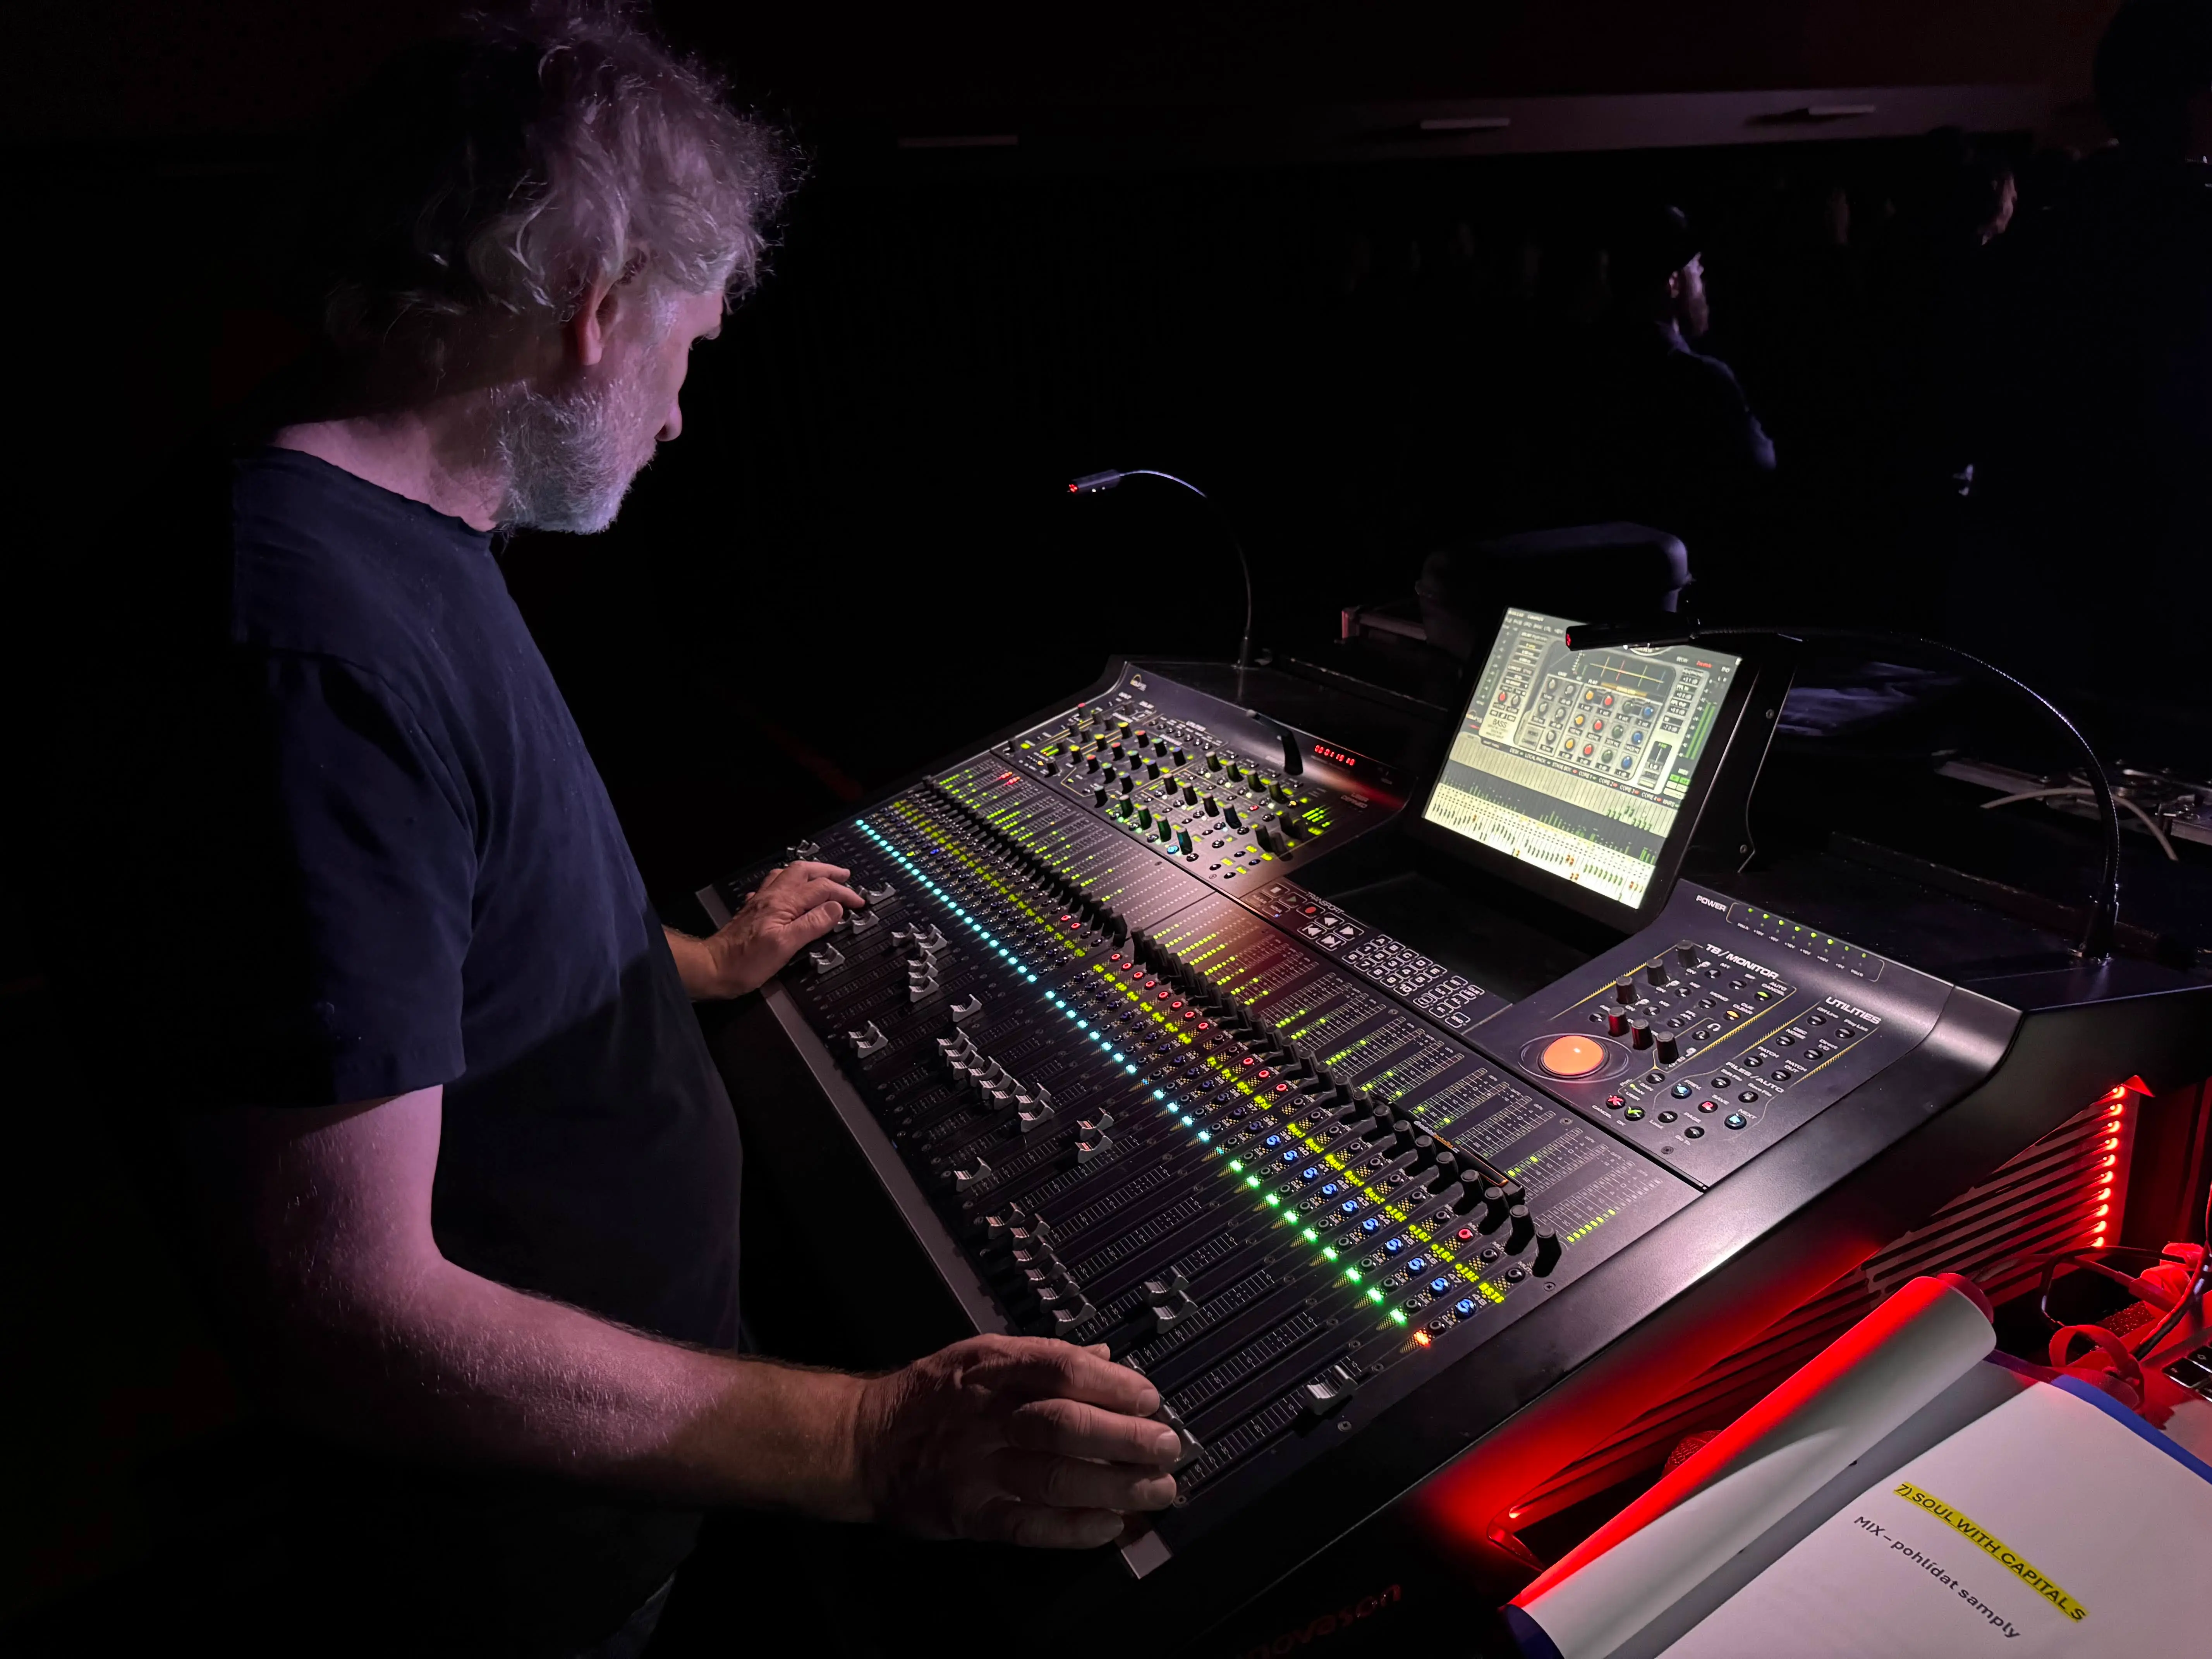
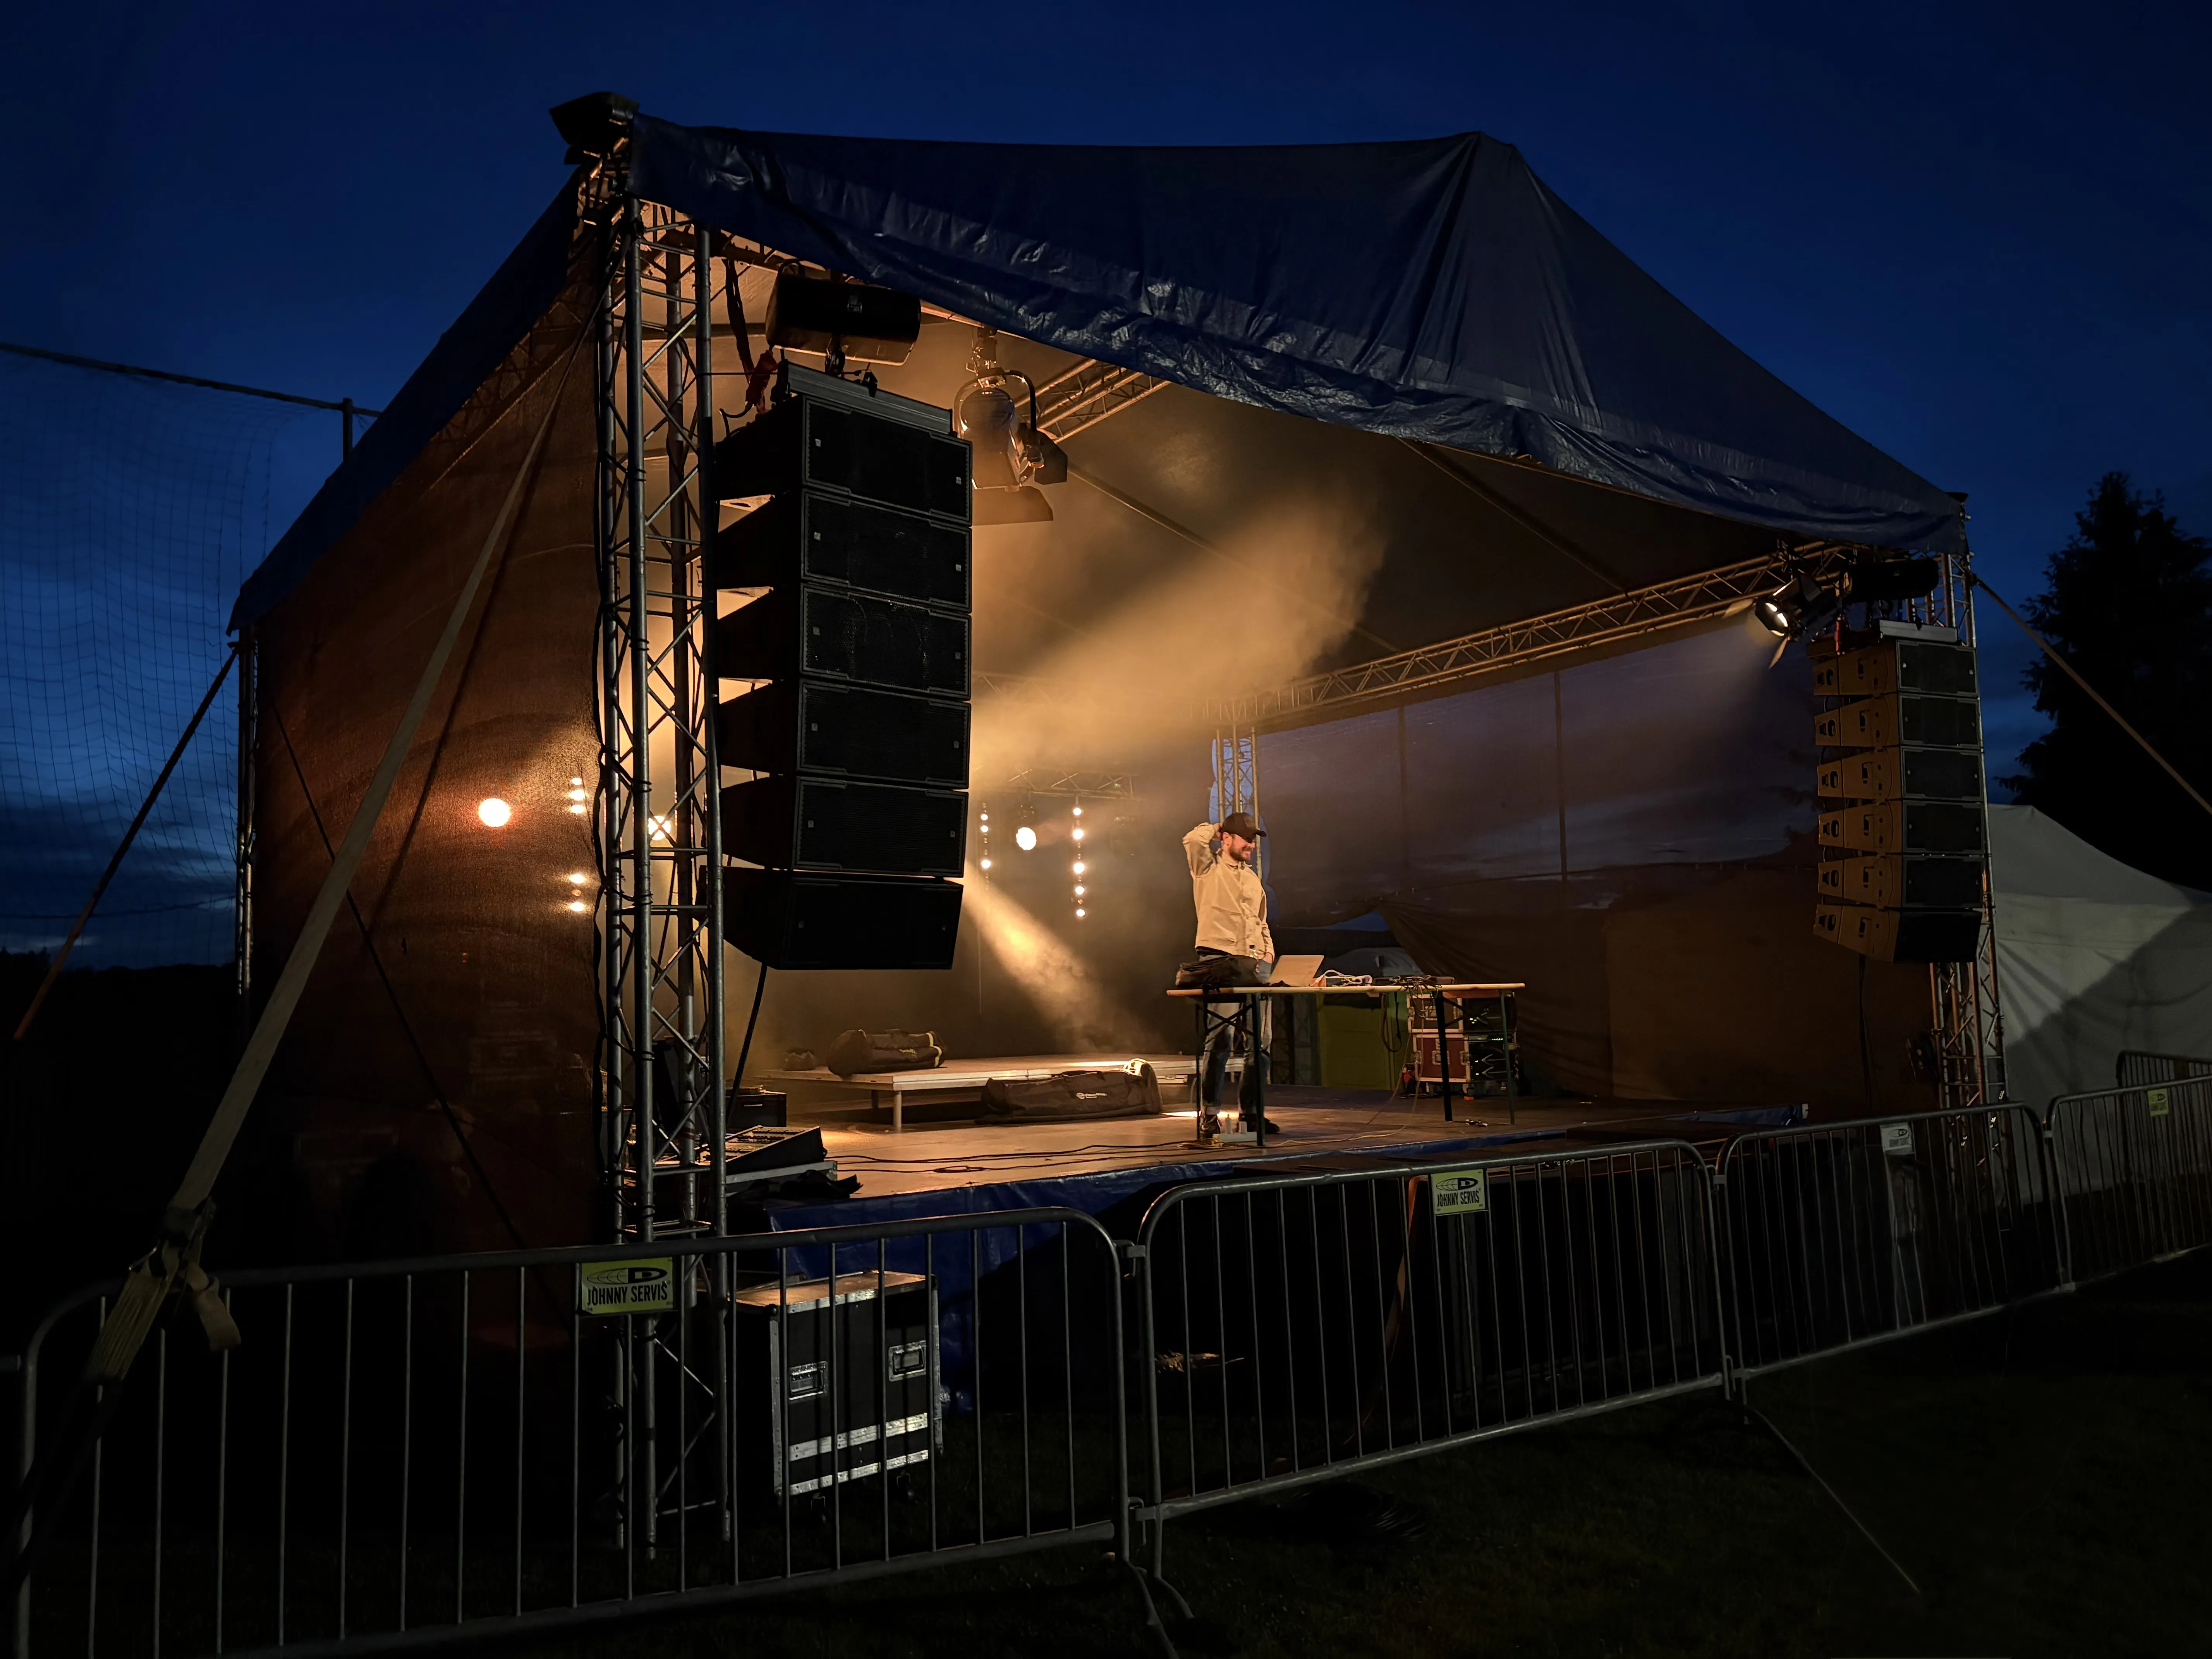
nové fotky

diff --git a/pages/foto.html b/pages/foto.html
@@ -1,15 +1,20 @@
 <div class="content-section">
     <div class="gallery">
-        <img src="img/fotogalerie/34.webp" class="gallery_photo">
+        <img src="img/fotogalerie/49.webp" class="gallery_photo">
         <img src="img/fotogalerie/13.webp" class="gallery_photo">
+        <img src="img/fotogalerie/52.webp" class="gallery_photo">
         <img src="img/fotogalerie/5.webp" class="gallery_photo">
+        <img src="img/fotogalerie/56.webp" class="gallery_photo">
+        <img src="img/fotogalerie/53.webp" class="gallery_photo">
         <img src="img/fotogalerie/9.webp" class="gallery_photo">
         <img src="img/fotogalerie/35.webp" class="gallery_photo">
         <img src="img/fotogalerie/31.webp" class="gallery_photo">
         <img src="img/fotogalerie/38.webp" class="gallery_photo">
+        <img src="img/fotogalerie/51.webp" class="gallery_photo">
         <img src="img/fotogalerie/7.webp" class="gallery_photo">
+        <img src="img/fotogalerie/57.webp" class="gallery_photo">
         <img src="img/fotogalerie/22.webp" class="gallery_photo">
-        <img src="img/fotogalerie/40.webp" class="gallery_photo">
+        <img src="img/fotogalerie/34.webp" class="gallery_photo">
         <img src="img/fotogalerie/17.webp" class="gallery_photo"> 
         <img src="img/fotogalerie/23.webp" class="gallery_photo">
         <img src="img/fotogalerie/14.webp" class="gallery_photo">
@@ -38,6 +43,7 @@
         <img src="img/fotogalerie/28.webp" class="gallery_photo">
         <img src="img/fotogalerie/43.webp" class="gallery_photo">
         <img src="img/fotogalerie/39.webp" class="gallery_photo">
+        <img src="img/fotogalerie/40.webp" class="gallery_photo">
     </div>
 
 </div>